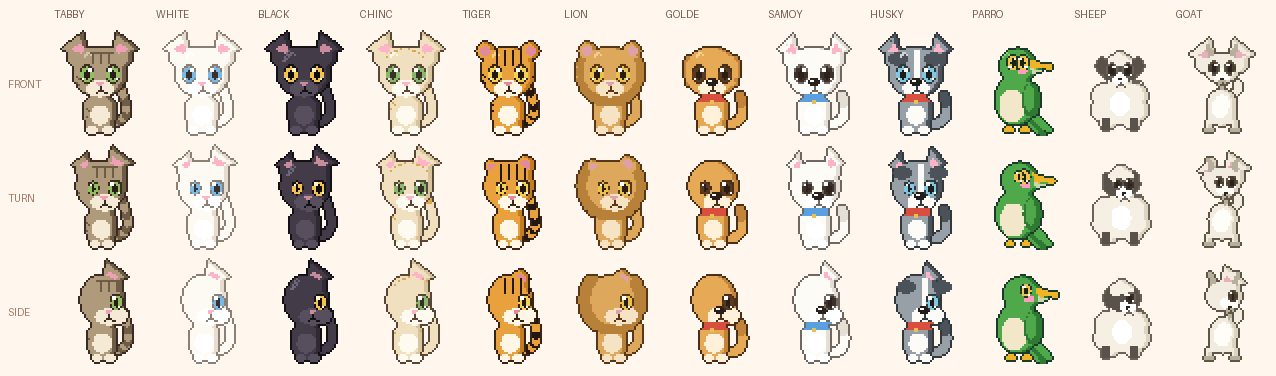
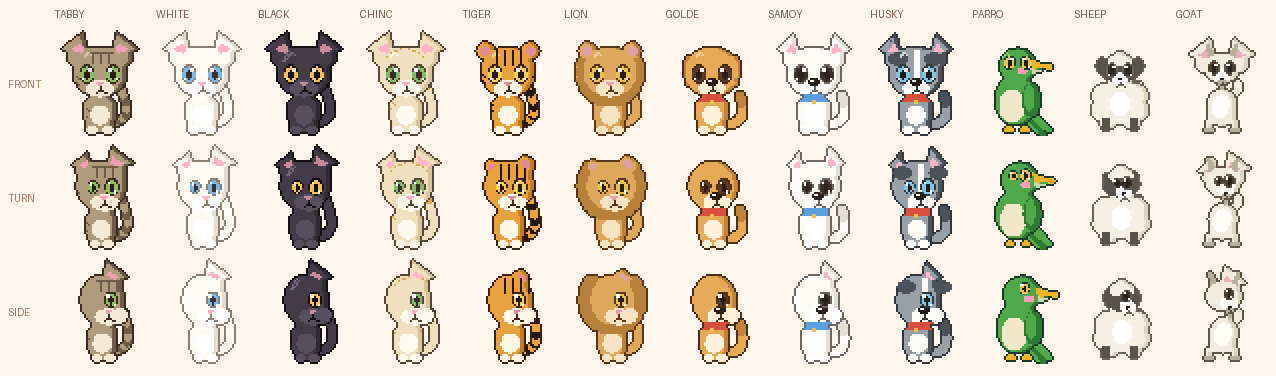
fix(dsh-pet): 侧转时鼻子和嘴往前摆、眼睛留在原地并上抬
之前转身是眼鼻嘴一起往朝向前移，近侧眼睛顶到脸边，远侧眼睛滑到
口鼻上，侧过身时眼睛压在鼻子上、嘴却跑到眼睛后面，看着像脸裂开。

改成三维旋转该有的样子：
- 近侧眼睛几乎不动（-1 格/满档），同时上抬 1.2 格，嘴往前摆 4.2 格，
  侧面时眼睛正好在鼻子正上方、不再压到口鼻的浅色块；
- 远侧眼睛仍边缩边往中间收，满档隐掉（是否隐藏只看原始 turn）；
- 眼睛上下左右跟着指针偏移时，口鼻和嘴一起挪（上一提交的 lookX/lookY）。

顺带修掉鹦鹉两只眼睛相距 4.8 格、半径 3.3 格所以糊成一个宽眼的问题：
拉开到 9 格、缩小到 0.78 倍。

测试：正面的眼睛必须是两个连通块、侧面必须是一个，且都盖在脸上。

diff --git a/plugins/dsh-pet/client.js b/plugins/dsh-pet/client.js
@@ -253,10 +253,10 @@ function turnShift(turn, factor = 1) {
 const LAYOUT = {
   cat: { eyeY: 23, near: 30.5, far: 17.5, scale: 1 },
   dog: { eyeY: 23, near: 30.5, far: 17.5, scale: 1 },
-  bird: { eyeY: 17.2, near: 26.4, far: 21.6, scale: 0.88 },
+  bird: { eyeY: 17.2, near: 28.2, far: 19.0, scale: 0.78 },
   // 羊和山羊脑袋窄，眼睛得铺开一点、转身时少挪一点，才不会挤成斗鸡眼
-  sheep: { eyeY: 21.0, near: 28.0, far: 20.0, scale: 0.76, eyeNear: 1.4 },
-  goat: { eyeY: 20.0, near: 28.2, far: 19.8, scale: 0.78, eyeNear: 1.4 },
+  sheep: { eyeY: 21.0, near: 28.0, far: 20.0, scale: 0.76, eyeNear: -0.8 },
+  goat: { eyeY: 20.0, near: 28.2, far: 19.8, scale: 0.78, eyeNear: -0.8 },
 };
 
 const layoutOf = (breed) => LAYOUT[BREEDS[breed].species] || LAYOUT.cat;
@@ -513,9 +513,10 @@ function eyeGrid(breed, frame) {
   const L = layoutOf(breed);
   const bob = frame.breath ? -1 : 0;
   const kind = frame.eyes || 'open';
-  const y = L.eyeY + bob;
-  // 转过身后脑袋收窄，近侧眼睛也略微缩一点，免得顶出轮廓
-  drawEyeShape(g, L.near + T.t * (L.eyeNear ?? 1.8), y, kind, L.scale * (1 - 0.12 * T.t));
+  // 侧转时眼睛几乎留在原地、略微上抬：往前甩的是鼻子和嘴，
+  // 眼睛跟着鼻子一起跑才会看着像脸裂开了
+  const y = L.eyeY + bob - (L.liftY ?? 1.2) * T.t;
+  drawEyeShape(g, L.near + T.t * (L.eyeNear ?? -1.0), y, kind, L.scale * (1 - 0.12 * T.t));
   if (raw < 0.95) {
     if (raw === 0) {
       // 正面：把近侧那只眼睛整体镜像过去，左右严格对称

diff --git a/plugins/dsh-pet/README.md b/plugins/dsh-pet/README.md
@@ -66,7 +66,8 @@
 | 抖耳朵 | 耳尖抖一下（猫耳上抬、狗耳下垂） |
 | 东张西望 | 侧过身看一眼再转回来，间隔与停留时长按品种 |
 | 眼睛跟鼠标 | 指针靠近时眼睛朝指针偏移（±1 格）；**口鼻、鼻子、嘴跟着一起挪**，眼嘴始终在同一张脸上；偏到侧面才换成转身，指针走远自动转回正面 |
-| 眼睛贴脸 | 眼睛是独立图层，画之前要压在身体像素上：`turn` 越大脑袋越窄，近侧眼睛跟着缩一点、远侧眼睛往回收，保证四档表情在每档转身下都不会顶出轮廓 |
+| 眼睛贴脸 | 眼睛是独立图层，画之前要压在身体像素上：`turn` 越大脑袋越窄，近侧眼睛**几乎留在原地、略微上抬并缩小**（往前甩的是鼻子和嘴），远侧眼睛边缩边往中间收，保证四档表情在每档转身下都不会顶出轮廓、也不会压到嘴上 |
+| 眼嘴同步 | 全套五官共用一套锚点：眼珠看向哪边，口鼻、鼻子、嘴和吐舌一起平移；转身时鼻子和嘴往前摆，眼睛留在原处并上抬 |
 | 转身 | 正面 ⇄ 侧转半档 ⇄ 侧面，90ms 一档；换边先转回正面再镜像 |
 | 打盹 | 金渐层专属：闭眼 + zZ 飘字，被摸会醒 |
 | 发疯 | 哈士奇专属：左右乱窜 1.5s + 台词 |
